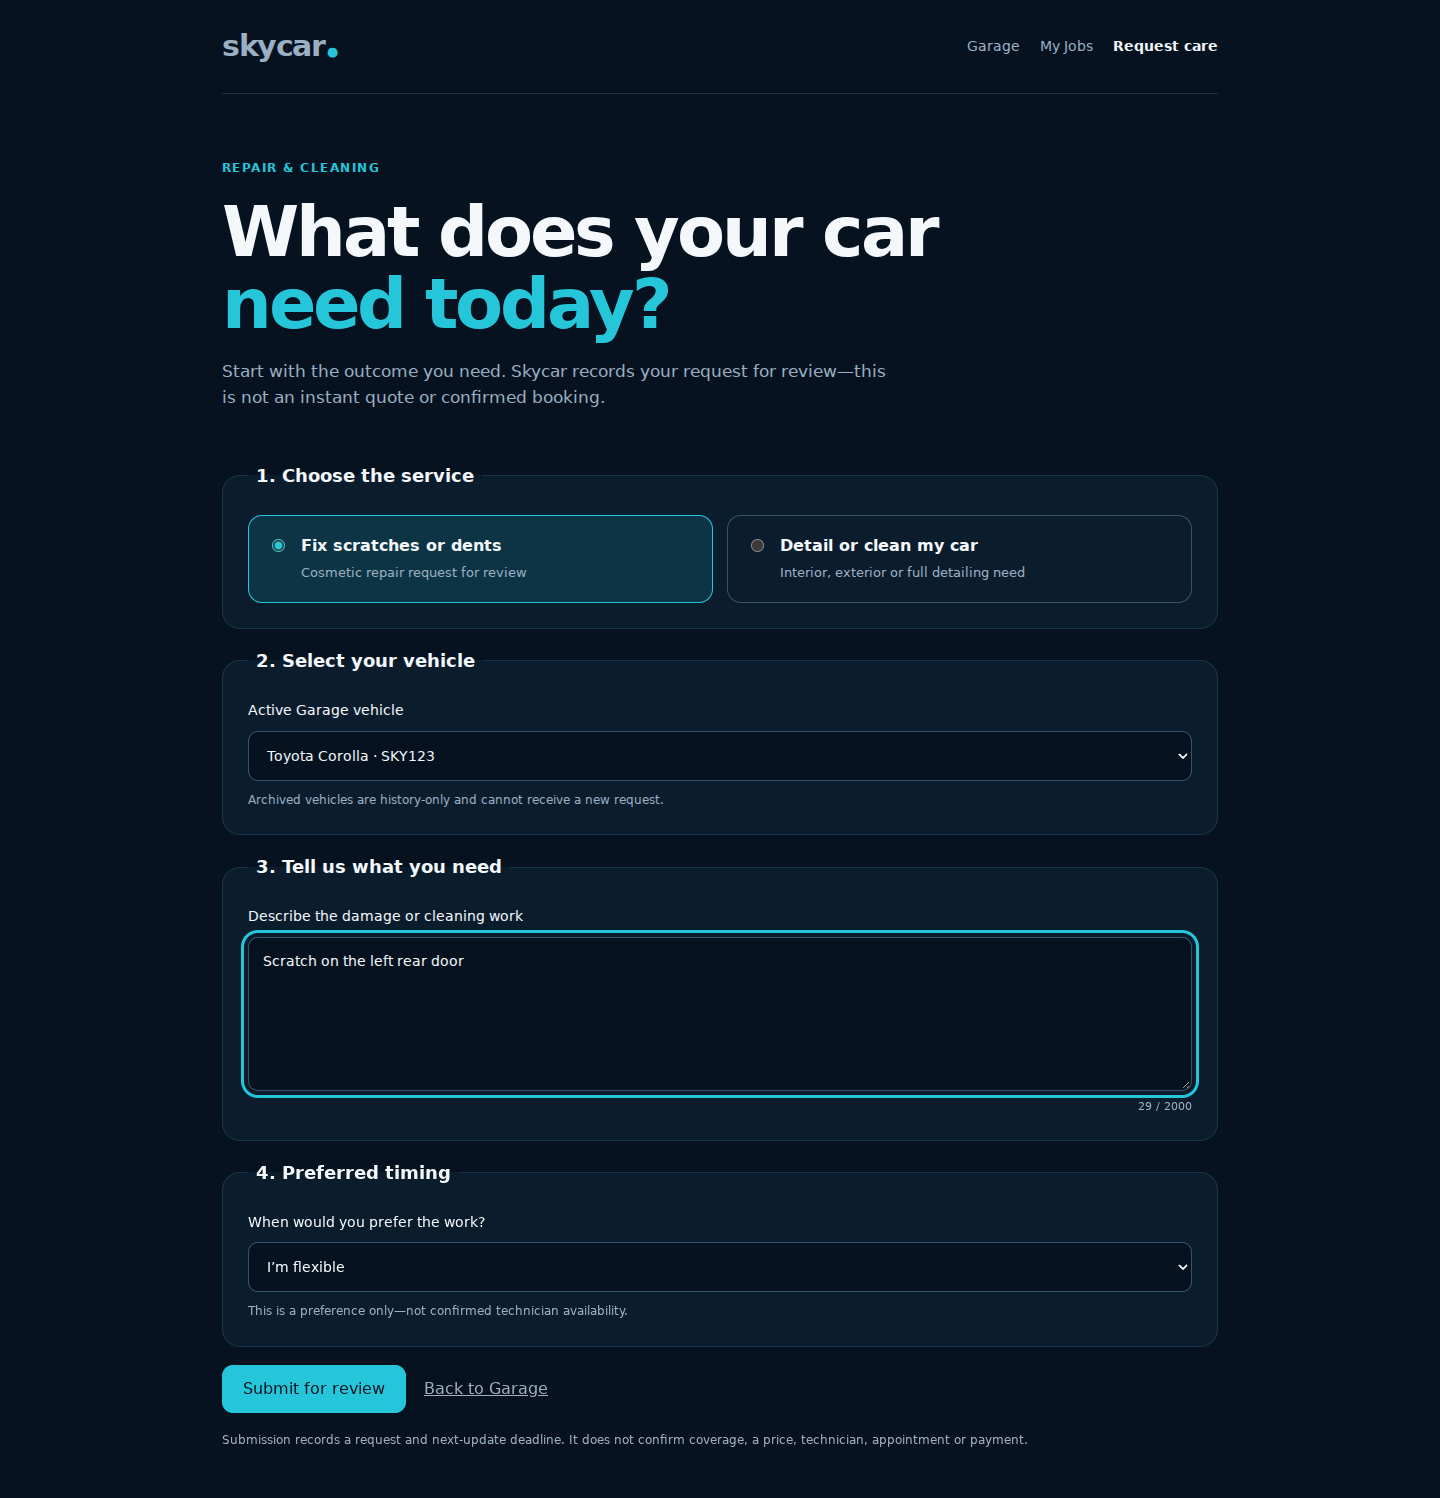
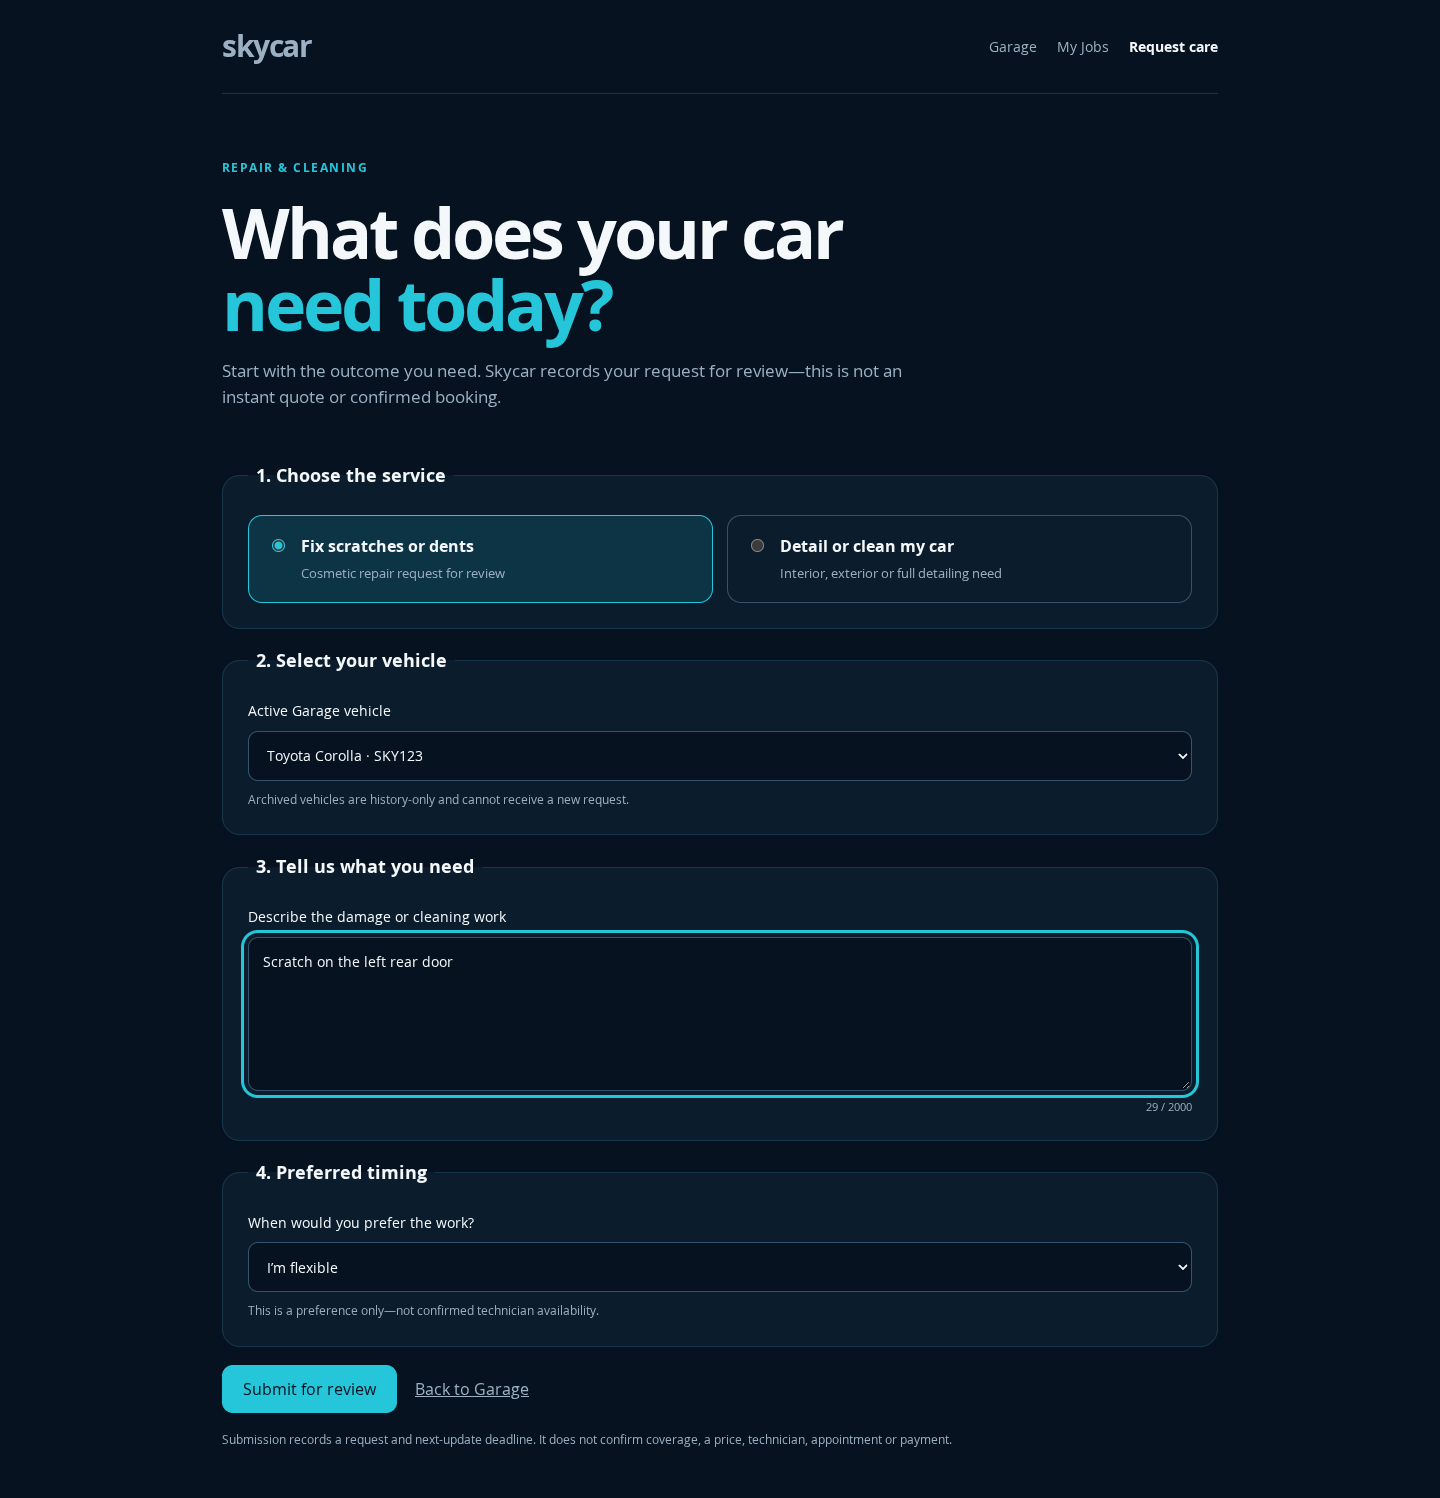
Fix Care entry session and retry recovery

diff --git a/src/features/care/request-form.tsx b/src/features/care/request-form.tsx
@@ -5,6 +5,7 @@ import { useRouter } from "next/navigation";
 import { useCallback, useEffect, useRef, useState } from "react";
 import type { CareInput } from "@/domain/care/request";
 import { readCareSubmission } from "@/domain/care/submission";
+import { unreadableResponseIsUncertain } from "@/domain/care/submission-recovery";
 import { ApiError, garageApi, type Page, type Vehicle } from "@/features/garage/types";
 import "./request-form.css";
 
@@ -44,7 +45,14 @@ async function submitCare(body: string, key: string) {
   }
   let envelope: Record<string, unknown>;
   try { envelope = await response.json(); }
-  catch { throw new SubmitError("INVALID_RESPONSE", "We could not confirm whether your request was saved.", response.status, true); }
+  catch {
+    throw new SubmitError(
+      "INVALID_RESPONSE",
+      "We could not confirm whether your request was saved.",
+      response.status,
+      unreadableResponseIsUncertain(response.status),
+    );
+  }
   if (!response.ok) {
     const error = envelope.error as Record<string, unknown> | undefined;
     const code = typeof error?.code === "string" ? error.code : "INTERNAL_ERROR";
@@ -76,12 +84,25 @@ export function CareRequestForm() {
   const [uncertain, setUncertain] = useState(false);
   const pending = useRef<Pending | null>(null);
   const controller = useRef<AbortController | null>(null);
+  const accountEpoch = useRef(0);
+
+  const clearAccountState = useCallback(() => {
+    accountEpoch.current += 1;
+    pending.current = null;
+    setVehicles([]);
+    setVehicleId("");
+    setService("repair");
+    setDescription("");
+    setPreferredWindow("flexible");
+    setError(null);
+    setUncertain(false);
+  }, []);
 
   const loadVehicles = useCallback(async () => {
     controller.current?.abort();
     const current = new AbortController(); controller.current = current;
-    pending.current = null;
-    setLoading(true); setAccess("ready"); setError(null); setUncertain(false); setVehicles([]); setVehicleId("");
+    clearAccountState();
+    setLoading(true); setAccess("ready");
     try {
       const result = await loadActiveVehicles(current.signal);
       if (current.signal.aborted) return;
@@ -90,12 +111,23 @@ export function CareRequestForm() {
       if (current.signal.aborted) return;
       setAccess(accessState(caught));
     } finally { if (!current.signal.aborted) setLoading(false); }
-  }, []);
+  }, [clearAccountState]);
 
   useEffect(() => {
     let active = true;
-    queueMicrotask(() => { if (active) void loadVehicles(); });
-    return () => { active = false; controller.current?.abort(); };
+    const revalidate = () => { if (active) void loadVehicles(); };
+    const revalidateVisible = () => { if (document.visibilityState === "visible") revalidate(); };
+    queueMicrotask(revalidate);
+    window.addEventListener("focus", revalidate);
+    window.addEventListener("pageshow", revalidate);
+    document.addEventListener("visibilitychange", revalidateVisible);
+    return () => {
+      active = false;
+      window.removeEventListener("focus", revalidate);
+      window.removeEventListener("pageshow", revalidate);
+      document.removeEventListener("visibilitychange", revalidateVisible);
+      controller.current?.abort();
+    };
   }, [loadVehicles]);
 
   async function submit(event: React.FormEvent) {
@@ -105,17 +137,22 @@ export function CareRequestForm() {
       const input: CareInput = { vehicle_id: vehicleId, service, description: description.trim(), preferred_window: preferredWindow };
       pending.current = { key: crypto.randomUUID(), body: JSON.stringify(input) };
     }
+    const attempt = pending.current;
+    const epoch = accountEpoch.current;
     setSaving(true); setError(null);
     try {
-      const result = await submitCare(pending.current.body, pending.current.key);
+      const result = await submitCare(attempt.body, attempt.key);
+      if (epoch !== accountEpoch.current) return;
       pending.current = null; setUncertain(false);
       router.push(`/care/requests/${encodeURIComponent(result.request.id)}`);
     } catch (caught) {
+      if (epoch !== accountEpoch.current) return;
       const next = caught instanceof SubmitError ? caught : new SubmitError("INTERNAL_ERROR", "We could not save your request.", 0, true);
       if (!next.retryable) pending.current = null;
       setUncertain(next.retryable && !!pending.current);
       if ([401, 403].includes(next.status)) {
-        setVehicles([]); setVehicleId(""); setAccess(next.status === 401 ? "session" : "access");
+        clearAccountState();
+        setAccess(next.status === 401 ? "session" : "access");
       }
       if (next.status === 404) { setVehicles([]); setVehicleId(""); setAccess("vehicle"); }
       if (next.status === 409) setAccess("conflict");

diff --git a/src/domain/care/submission-recovery.ts b/src/domain/care/submission-recovery.ts
@@ -1,0 +1,7 @@
+// An unreadable response can only be ambiguous when transport failed before a
+// response existed (status 0) or the server returned a 5xx. A received 4xx is a
+// definitive rejection even if its body is malformed, so the customer must be
+// allowed to correct the form and start a new idempotent attempt.
+export function unreadableResponseIsUncertain(status: number) {
+  return status === 0 || status >= 500;
+}

diff --git a/docs/CARE_ENTRY_UI.md b/docs/CARE_ENTRY_UI.md
@@ -11,6 +11,12 @@ idempotency key. A transient or uncertain response locks the form and reuses the
 exact key and body. A verified receipt navigates to `/care/requests/:id`. Archived
 vehicles are excluded and no second vehicle ownership model is created.
 
+Account revalidation on focus, page return or an explicit retry first clears the
+prior account's vehicle list, draft, preferences and pending request key/body. A
+received malformed 4xx is definitive and unlocks the form for correction; an
+unreadable 5xx or network failure remains uncertain and preserves the exact
+idempotent attempt.
+
 ## Honest boundary
 
 This slice does not claim coverage, pricing, a technician, appointment or payment.
@@ -28,13 +34,14 @@ PLAYWRIGHT_MODULE=<playwright-index.js> CHROMIUM_PATH=<chromium-binary> node tes
 
 The fixture contains no customer data. It verifies the public entry link, active
 vehicle selection, exact request payload, same-key/same-body uncertain retry,
-receipt navigation, mobile layout, empty Garage and session-required redaction.
+receipt navigation, mobile layout, empty Garage, populated-draft redaction across
+an account change, malformed-4xx correction and malformed-5xx exact retry.
 Screenshots are synthetic UI evidence—not hosted Supabase, real sign-in, physical
 device or production deployment evidence.
 
 ## Executed locally, 21 September 2026
 
-- `npm run lint`, `npm run typecheck` and all 47 unit/API tests passed.
+- `npm run lint`, `npm run typecheck` and all 48 unit/API tests passed.
 - The production build passed and generated `/care/request`.
 - The built Care routes failed closed without activation/configuration.
 - The Chromium scenario above passed every listed journey and `git diff --check`
